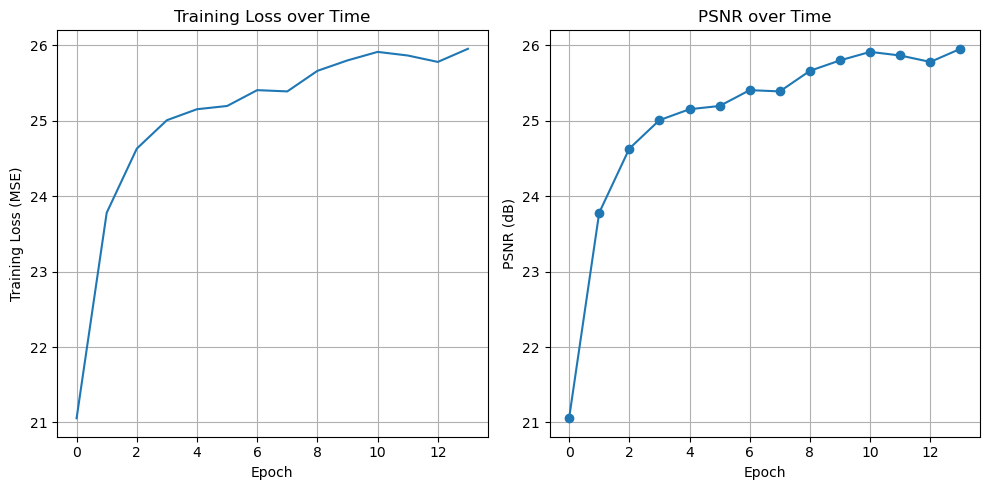
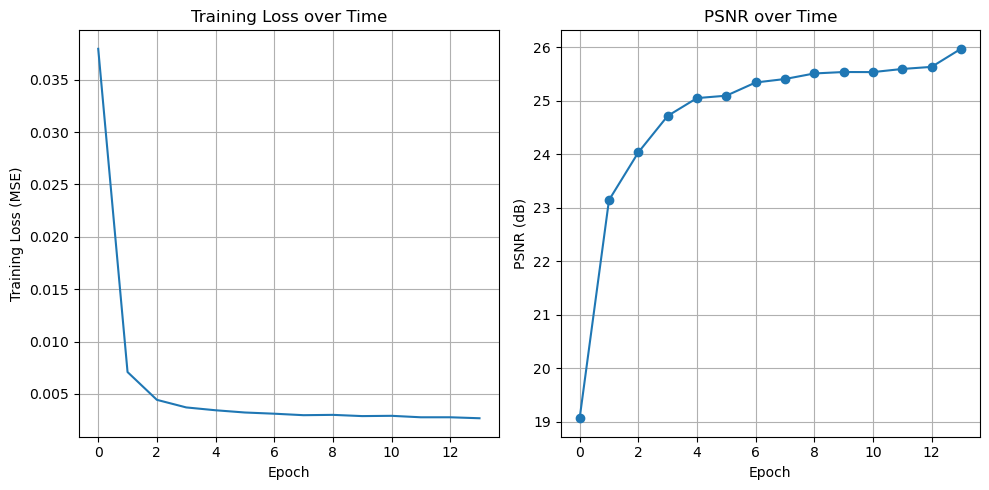
part 2 stuff

diff --git a/Project_4/index.html b/Project_4/index.html
@@ -69,11 +69,15 @@
         <div class="grid-container">
             <div class="grid-item">
                 <h3>Frustum Screenshot 1</h3>
-                <img src="./images/Many_views_rays.png" alt="Camera frustum visualization 1">
+                <img src="./images/duck_1.png" alt="Camera frustum visualization 1">
             </div>
             <div class="grid-item">
                 <h3>Frustum Screenshot 2</h3>
-                <img src="./images/Single_view_rays.png.png" alt="Camera frustum visualization 2">
+                <img src="./images/duck_2.png" alt="Camera frustum visualization 2">
+            </div>
+            <div class="grid-item">
+                <h3>Frustum Screenshot 3</h3>
+                <img src="./images/duck_3.png" alt="Camera frustum visualization 2">
             </div>
         </div>
     </div>
@@ -213,54 +217,102 @@ I tested on sizes width sizes 256 and 32 and positional encoding sizes of 2 and 
 
         <h3>Implementation Description</h3>
         <pre>
-**Ray Generation:** Function implemented using C2W matrix and intrinsics.
-**Sampling:** Hierarchical Volume Sampling used ($N_c$ coarse samples, $N_f$ fine samples).
-**Volume Rendering:** Implemented the full rendering equation: $C(r) = \sum T_i \cdot (1 - \exp(-\sigma_i \cdot \delta_i)) \cdot c_i$.
-        </pre>
+Camera to World - This was implemented using homogenous coordinates. I added a 4th dimensions to the 
+            camera coordinate vectors and left multipled by the c2w matrix which was given. 
+            I then removed the added 4th dimension to retreive the world coordinates. 
 
-        <h3>Rays and Samples Visualization (2 Photos)</h3>
+    Pixel to Camera - I calculated the conversion from image coordinates to camera coordinates by deriving
+            the formula from the matrix multiplication. Rewritten, we know:
+                x = (z / f_x) * (u - o_x)
+                y = (z / f_y) * (v - o_y)
+                z > 0
+
+            We choose to arbitrarily set Z to depth 1. This is acceptable since we sample 
+            along the ray in the z direcation later and integrate it out, so we can choose
+            the simplest Z for the calculation.
+
+            The o_x and o_y are set to half the width and half the height
+
+            f_x and f_y is just set to the focal length of the camera.
+
+    Pixel to Ray - Once the world coordinates can be recovered by converting from pixel to camera
+                    then to world, we want to turn the world coordinates into a ray so we can
+                    easily calculate depths for sampling.
+
+                    This is as simple as applying the formula given in the project spec.
+
+                    R0 is set to the translation component of the c2w matrix and Rd is set to
+                    a normalized difference of each world coordinate (x, y, z) and R0
+
+    
+    Sampling Rays - We next want to sample rays. This is simply done by converting all the pixels 
+                accross all pictures into rays, then simply randomly sampling. 
+
+
+    Sampling Along Rays - For inference, we sample 64 points along the ray using np.linspace. For
+                            training, we want to have points, and do this by adding small 
+                            pertibations. This was calculated by setting the distance long the ray
+                            t = t + (np.random(t.shape) * t_width)
+
+    Dataloader - We need to make a dataloader for training with Torch, so we create a seperate 
+                    dataset class for the NeRF. We conduct all the above except sampling to retreive
+                    the rays for all the pixels across all the images. We then set the len of the 
+                    dataset to be the number of rays and set the getItem function to be index the 
+                    desired rays and corresponding pixels from the data.
+
+    MLP Construction - I created a NN with 8 fully connected layers interlaced with ReLU activation
+                        functions. I also added the original input back into the 4th layer to 
+                        ensure information is not forgotten. From there I had two outputs, one for 
+                        the density parameter, and another 2 fully connected components for the 
+                        rgb output. We don't introduce Rd until after the 8 connected layers. I
+                        also used positional encoding of size 10 and 4 for the coordinates and rays.
+
+
+    Volumetric Rendering - This process is done by summing the colors along a ray. This is done in a
+                            forward to back fashion by multiplying every point on the ray the amount
+                            light that permeated through the previous layers. This is found by multiplying
+                            the color by 1 - torch.exp(-sigmas * step_size) and torch.exp(-torch.cumsum(offset, dim=1)).
+                            
+                            </pre>
+
+        <h3>Rays and Samples Visualization</h3>
         <p>Visualization of up to 100 rays and their sampled points with the camera poses:</p>
         <div class="grid-container">
             <div class="grid-item">
-                <h4>Viewpoint 1</h4>
-                <img src="path/to/rays_samples_vis_1.png" alt="Rays and samples visualization 1">
+                <h4>Many View Rays</h4>
+                <img src="./images/Many_views_rays.png" alt="Rays and samples visualization 1">
             </div>
             <div class="grid-item">
-                <h4>Viewpoint 2 (Different Angle)</h4>
-                <img src="path/to/rays_samples_vis_2.png" alt="Rays and samples visualization 2">
+                <h4>Single View Rays</h4>
+                <img src="./images/Single_view_rays.png" alt="Rays and samples visualization 2">
             </div>
         </div>
 
-        <h3>Training Progression Visualization (5 Photos)</h3>
+        <h3>Training Progression Visualization</h3>
         <p>Predicted images across 5 key iterations showing the NeRF learning the scene geometry and texture:</p>
         <div class="grid-4x5-row">
             <div class="grid-item">
-                <h4>Iter 1k</h4>
-                <img src="path/to/nerf_iter_1k.png" alt="NeRF Iteration 1k">
+                <img src="./images/lego_1.png" alt="NeRF Iteration 1k">
             </div>
             <div class="grid-item">
-                <h4>Iter 10k</h4>
-                <img src="path/to/nerf_iter_10k.png" alt="NeRF Iteration 10k">
+                <img src="./images/lego_2.png" alt="NeRF Iteration 10k">
             </div>
             <div class="grid-item">
-                <h4>Iter 50k</h4>
-                <img src="path/to/nerf_iter_50k.png" alt="NeRF Iteration 50k">
+                <img src="./images/lego_3.png" alt="NeRF Iteration 50k">
             </div>
             <div class="grid-item">
-                <h4>Iter 100k</h4>
-                <img src="path/to/nerf_iter_100k.png" alt="NeRF Iteration 100k">
+                <img src="./images/lego_4.png" alt="NeRF Iteration 100k">
             </div>
             <div class="grid-item">
-                <h4>Final</h4>
-                <img src="path/to/nerf_iter_final.png" alt="NeRF Final Result">
+                <img src="./images/lego_5.png" alt="NeRF Final Result">
             </div>
         </div>
 
         <h3>PSNR Curve on Validation Set</h3>
         <p>PSNR curve tracking the performance on the held-out validation images:</p>
-        <img src="path/to/psnr_curve_part2.png" alt="PSNR curve for NeRF training">
+        <img src="./images/lego_psnr.png" alt="PSNR curve for NeRF training">
 
-        <h3>Spherical Rendering Video (GIF)</h3>
+        <h3>Spherical Rendering Video</h3>
         <p>A GIF showing a full 360-degree render of the Lego object using test camera poses:</p>
         <img src="path/to/spherical_render.gif" alt="Spherical NeRF Render GIF">
     </div>
